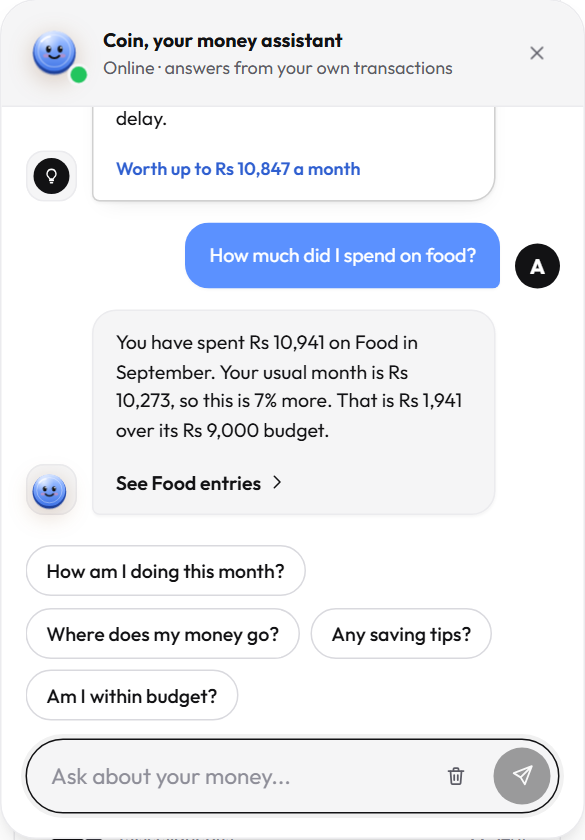
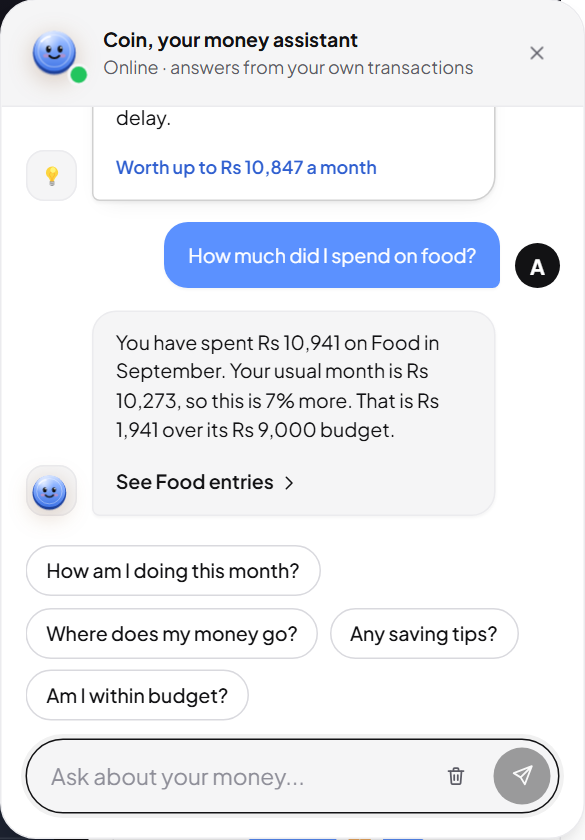
Set the app in Plus Jakarta Sans
Chosen from five fonts rendered side by side on the real dashboard
(Outfit, Poppins, Plus Jakarta Sans, Manrope, DM Sans). Applies to every
page and the loader; the landing hero keeps Inter Tight.

Claude-Session: https://claude.ai/code/session_01Hp2cChNKYuzKWJZCG8E3Z4

diff --git a/client/index.html b/client/index.html
@@ -11,10 +11,10 @@
     <link rel="icon" href="/favicon.svg" type="image/svg+xml" />
     <link rel="preconnect" href="https://fonts.googleapis.com" />
     <link rel="preconnect" href="https://fonts.gstatic.com" crossorigin />
-    <!-- Outfit for the app (design 9, which it follows, is set in it);
+    <!-- Plus Jakarta Sans for the app (chosen from five set side by side);
          Inter Tight adds the tighter headings on the landing page. -->
     <link
-      href="https://fonts.googleapis.com/css2?family=Outfit:wght@300..700&family=Inter+Tight:wght@400..800&family=Inter:wght@400..700&display=swap"
+      href="https://fonts.googleapis.com/css2?family=Plus+Jakarta+Sans:wght@400..800&family=Inter+Tight:wght@400..800&family=Inter:wght@400..700&display=swap"
       rel="stylesheet"
     />
     <title>Campus Coin</title>
@@ -33,7 +33,7 @@
         gap: 0.9rem;
         background: #121214;
         color: #fff;
-        font-family: 'Outfit', system-ui, -apple-system, 'Segoe UI', sans-serif;
+        font-family: 'Plus Jakarta Sans', system-ui, -apple-system, 'Segoe UI', sans-serif;
         animation: app-loader-in 0.3s ease-out;
       }
       .app-loader-mark { position: relative; display: grid; place-items: center; width: 104px; height: 104px; }

diff --git a/client/src/styles/tokens.css b/client/src/styles/tokens.css
@@ -2,7 +2,7 @@
    Campus Coin design tokens
    ---------------------------------------------------------------------------
    Modelled on design 9, a fintech dashboard on Dribbble: black (#121214),
-   white and one blue (#5b91ff), set in Outfit. Blue marks money coming in and
+   white and one blue (#5b91ff), set in Plus Jakarta Sans. Blue marks money coming in and
    black money going out; categories take shades of blue and grey.
 
    Colour is assigned by the job it does, never by decoration:
@@ -19,8 +19,8 @@
    =========================================================================== */
 
 :root {
-  --font-body: 'Outfit', system-ui, -apple-system, 'Segoe UI', sans-serif;
-  --font-display: 'Outfit', system-ui, sans-serif;
+  --font-body: 'Plus Jakarta Sans', system-ui, -apple-system, 'Segoe UI', sans-serif;
+  --font-display: 'Plus Jakarta Sans', system-ui, sans-serif;
   --r-control: 12px;
   --r-panel-lg: 24px;
   --r-panel: 20px;

diff --git a/client/src/styles/design9.css b/client/src/styles/design9.css
@@ -2,7 +2,7 @@
    The app's look, modelled on design 9 (a fintech dashboard on Dribbble):
    the app sits in a black frame with a slim rail of round icon buttons, the
    content is one white panel with large rounded corners, buttons are black
-   pills, and one blue carries the figures. Set in Outfit. Loaded last, so
+   pills, and one blue carries the figures. Set in Plus Jakarta Sans. Loaded last, so
    these rules win over the older ones in app.css, frame.css and pictures.css.
    =========================================================================== */
 

diff --git a/README.md b/README.md
@@ -294,7 +294,7 @@ The interface is written rather than assembled. A few decisions worth naming:
   round icon buttons that slides open on hover to show each page's name, the content is one white
   panel with large rounded corners, buttons are black pills, and one blue
   (`#5b91ff`) carries the figures. Categories take shades of blue and grey.
-  Text is set in Outfit. The dashboard opens on three figures beside a tall
+  Text is set in Plus Jakarta Sans. The dashboard opens on three figures beside a tall
   "my month" card, the cash flow on a black card with In / Out / Kept tabs,
   then the month's spending as a calendar of squares, dark quick-add tiles and
   the latest transactions. Every other tab uses the same cards, pills, inputs
